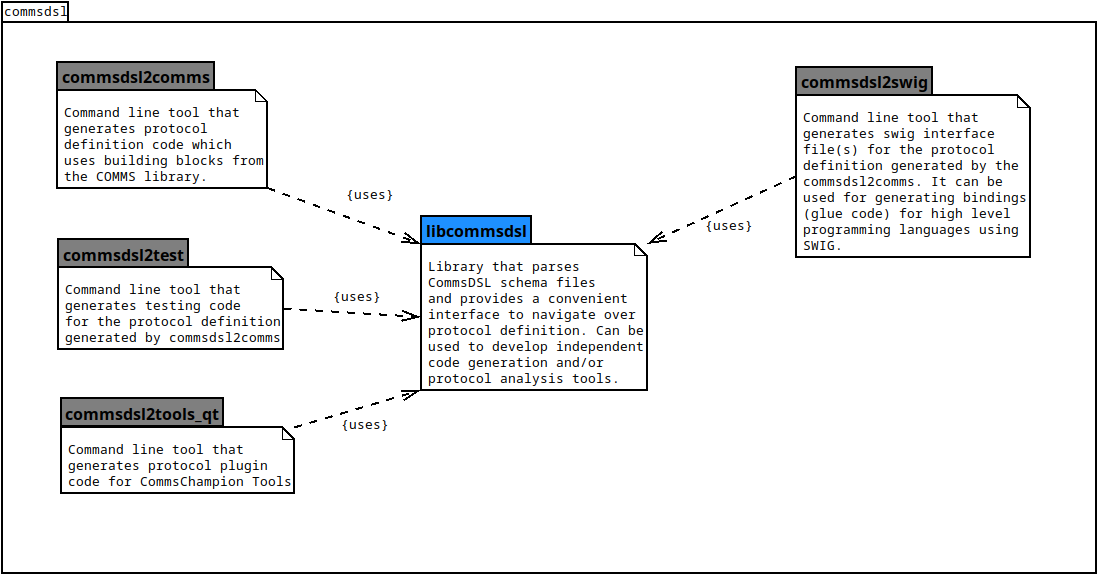
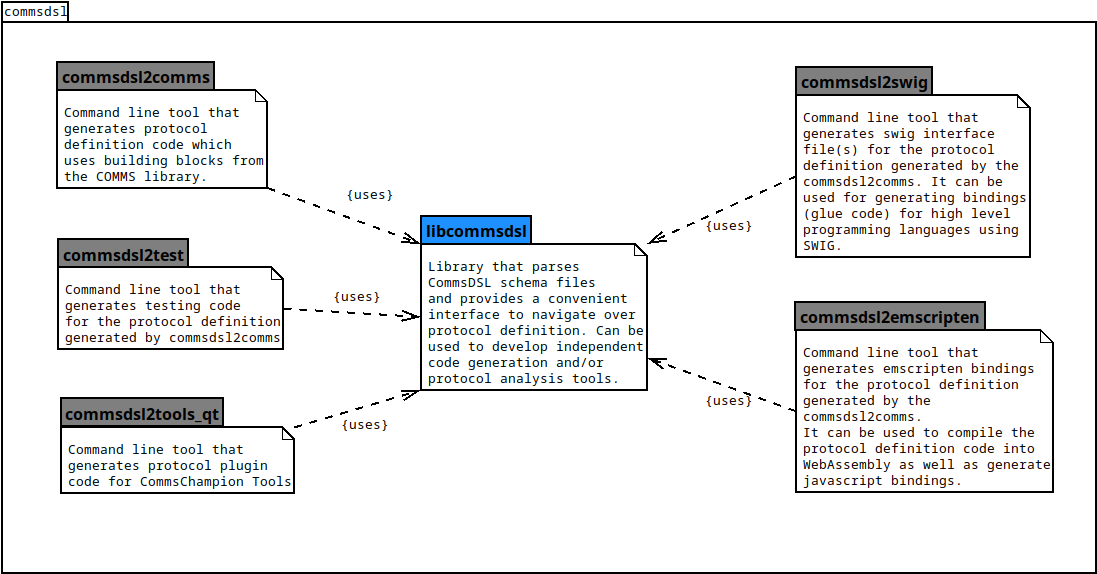
Announcing release v5.2 of the commsdsl as well as added info on commsdsl2emscripten.

Changed region(s): [[0.6509, 0.5035, 0.9608, 0.8589], [0.5889, 0.622, 0.6199, 0.6516]]

diff --git a/_includes/home.md b/_includes/home.md
@@ -9,7 +9,7 @@ decode any binary data as well.
 
 Both **C++** and **embedded systems** are first class citizens of the **CommsChampion Ecosystem**.
 However, other high level programming languages are also supported via generation of the
-bindings (glue code) using [SWIG](https://www.swig.org/).
+bindings (glue code) using [SWIG](https://www.swig.org/) and [emscripten](https://emscripten.org/).
 
 Interested? Then buckle up and read on.
 
@@ -139,6 +139,12 @@ interface files to create bindings (glue code) to other high level
 programming languages. The generated code depends on the output generated by
 the **commsdsl2comms** and requires usage of the external [swig](https://www.swig.org/)
 utility for bindings code generation.
+
+- **commsdsl2emscripten** application. It generates class wrappers as well as
+[emscripten](https://emscripten.org/) bindings to the protocol definition code
+generated by the **commsdsl2comms**. The [emscripten](https://emscripten.org/)
+toolchain can be used to compile the protocol definition C++ code into the
+WebAssembly as well as generate javascript bindings to it.
 
 - **libcommsdsl** library. It provides a convenient interface to parse and
 process [CommsDSL](https://github.com/commschamp/CommsDSL-Specification) schema

diff --git a/_posts/2023-01-26-commsdsl-release-v5.2.md b/_posts/2023-01-26-commsdsl-release-v5.2.md
@@ -1,0 +1,11 @@
+---
+date: 2023-01-26 00:00:01
+title: New (v5.2) release of commsdsl
+categories:
+  - news
+---
+
+Mostly dedicated to the new **commsdsl2emscripten** code generator. It generates
+[emscripten](https://emscripten.org/) bindings for the protocol definition code.
+
+See the [release notes](https://github.com/commschamp/commsdsl/releases/tag/v5.2) for details.

diff --git a/_includes/versions.md b/_includes/versions.md
@@ -2,6 +2,7 @@ Versions Compatibilty Table
 
 | commsdsl2comms | COMMS Library | CommsDSL Specification |
 |---------------------------------------------------------|
+| v5.2| >=v5.0.3 | <=v5.0|
 | v5.1.3| >=v5.0.2 | <=v5.0|
 | v5.1.2| >=v5.0.1 | <=v5.0|
 | v5.1.1| >=v5.0.1 | <=v5.0|
